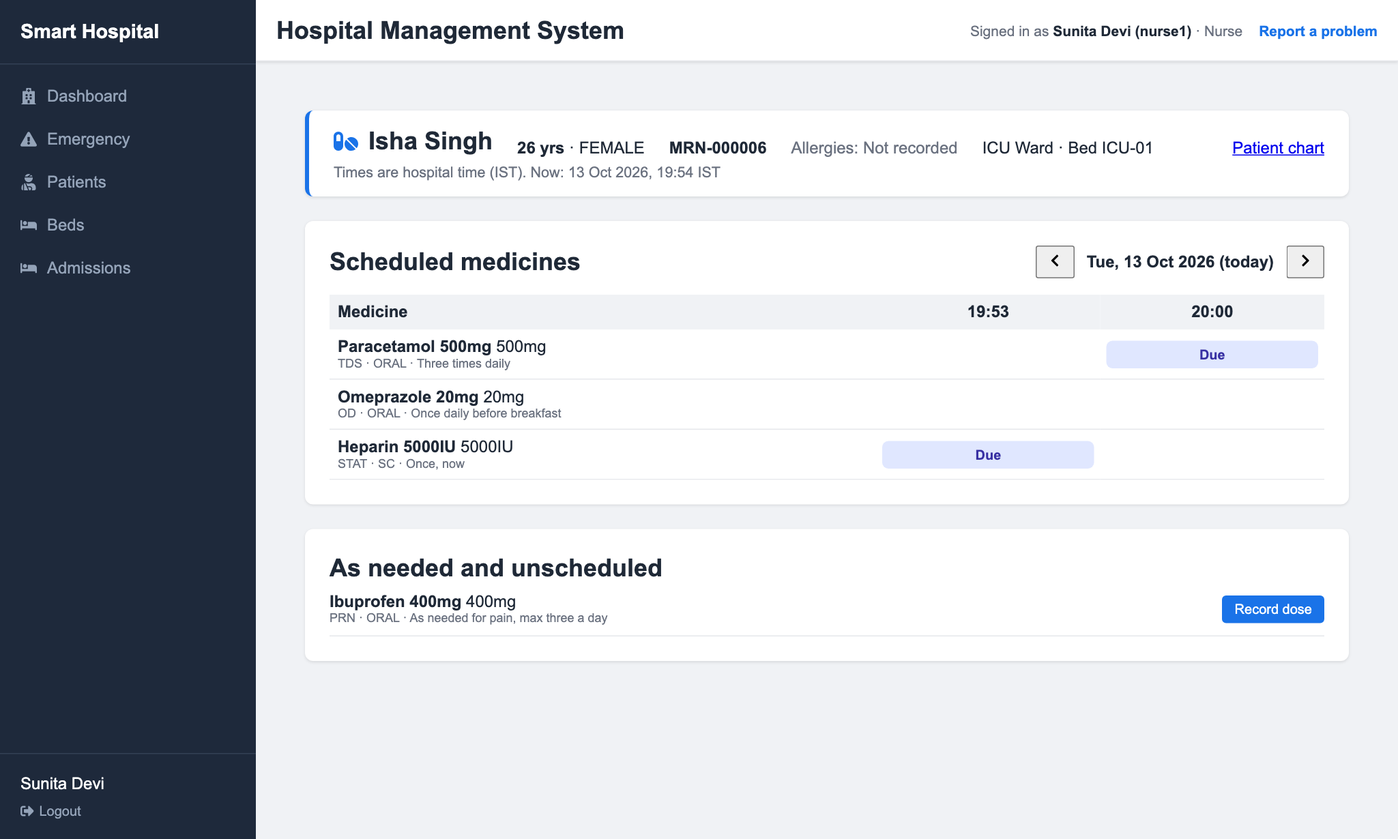
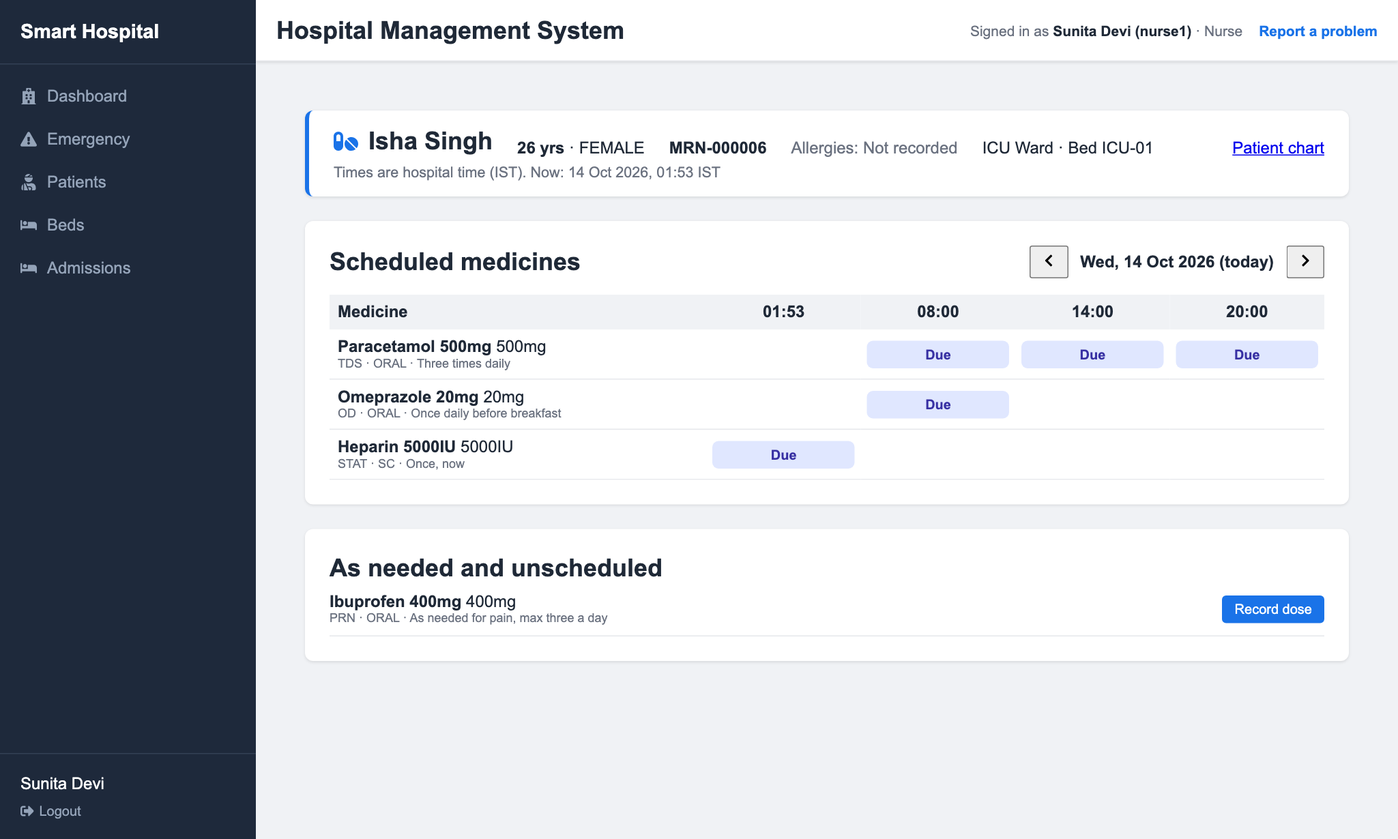
docs(report): regenerate the DBMS report for the current code
Every generated input was rebuilt from the current migrations (000-025) and code by the
new gen/build-all.js: gen/build-schema.js builds a fresh hospital_report_test and writes
data/schema.json and hospital_db_full.sql (both were previously produced by hand), then
the query, demonstration, test-case and screenshot runs on a fresh hospital_db_test, the
ER diagrams and tables, and the PDF (38 pages; main.pdf stays untracked).

Changes that follow the code:
- Query 5 and the dispensing lock-order listing use today's date in India, not CURDATE();
  ages are computed with that date as a parameter; v_current_stock (migration 024)
- nurse_ward_assignments.ended_at and chk_nwa_ended_at: 342 columns, 31 CHECKs, rule 19,
  the ER attribute (Module 6), and the assign/end/cancel rows in Section 9.6; the only
  application DELETE is cancelling an assignment that has not started
- Section 9.4 describes UTC connections and India-time "today"
- Chapter 10: 303 server tests in 46 files, the 00:30/06:00 IST checks, the browser suite
  in three time zones, and the patient journey as run locally
- the doctor's chart screenshot now opens a patient in Dr. Smith's care (it showed
  "Access denied" when the newest patient was not his); screenshots use India time

Changed region(s): [[0.4998, 0.3398, 0.9058, 0.5561], [0.7496, 0.3089, 0.7809, 0.3398], [0.4685, 0.1854, 0.4998, 0.2163]]

diff --git a/docs/report/gen/build-schema.js b/docs/report/gen/build-schema.js
@@ -1,0 +1,90 @@
+// Builds a fresh database from database/seed.sql and every migration (hospital_report_test; any
+// other database is never touched), then writes from it:
+//   data/schema.json       the structure the generators read (tables, columns, keys, CHECKs, triggers,
+//                          views, routines and their CREATE statements)
+//   hospital_db_full.sql   the complete MySQL script (Appendix A): schema, views, triggers, procedures, data
+// Usage (from docs/report): node gen/build-schema.js
+const path = require('path');
+const fs = require('fs');
+const { execFileSync } = require('child_process');
+const SERVER = path.join(__dirname, '../../../server');
+const mysql = require(SERVER + '/node_modules/mysql2/promise');
+require(SERVER + '/node_modules/dotenv').config({ path: SERVER + '/.env' });
+const { buildFromSeed } = require(SERVER + '/scripts/lib/build-db');
+const { adminCredentials } = require(SERVER + '/scripts/lib/admin-credentials');
+const { listMigrations } = require(SERVER + '/scripts/lib/sql');
+
+const DB = 'hospital_report_test';
+const R = path.join(__dirname, '..');
+
+async function schema(c) {
+  const q = async (sql) => (await c.query(sql, [DB]))[0];
+  const [base] = await c.query("SELECT TABLE_NAME n FROM information_schema.TABLES WHERE TABLE_SCHEMA = ? AND TABLE_TYPE = 'BASE TABLE' ORDER BY n", [DB]);
+  for (const { n } of base) await c.query(`ANALYZE TABLE \`${n}\``); // exact row counts in TABLE_ROWS
+  const d = {};
+  d.tables = await q(`SELECT TABLE_NAME name, TABLE_TYPE type, ENGINE engine, TABLE_ROWS approx_rows, TABLE_COMMENT comment
+    FROM information_schema.TABLES WHERE TABLE_SCHEMA = ? ORDER BY name`);
+  d.columns = await q(`SELECT TABLE_NAME t, COLUMN_NAME name, ORDINAL_POSITION pos, COLUMN_TYPE type, IS_NULLABLE nullable,
+      COLUMN_DEFAULT dflt, COLUMN_KEY k, EXTRA extra, COLUMN_COMMENT comment, GENERATION_EXPRESSION gen
+    FROM information_schema.COLUMNS WHERE TABLE_SCHEMA = ? ORDER BY t, pos`);
+  d.indexes = await q(`SELECT TABLE_NAME t, INDEX_NAME name, NON_UNIQUE non_unique, GROUP_CONCAT(COLUMN_NAME ORDER BY SEQ_IN_INDEX) cols
+    FROM information_schema.STATISTICS WHERE TABLE_SCHEMA = ? GROUP BY t, name, non_unique ORDER BY t, name`);
+  d.fks = await q(`SELECT k.TABLE_NAME t, k.CONSTRAINT_NAME name, GROUP_CONCAT(k.COLUMN_NAME ORDER BY k.ORDINAL_POSITION) cols,
+      k.REFERENCED_TABLE_NAME rt, GROUP_CONCAT(k.REFERENCED_COLUMN_NAME ORDER BY k.ORDINAL_POSITION) rcols, r.DELETE_RULE on_delete, r.UPDATE_RULE on_update
+    FROM information_schema.KEY_COLUMN_USAGE k JOIN information_schema.REFERENTIAL_CONSTRAINTS r
+      ON r.CONSTRAINT_SCHEMA = k.TABLE_SCHEMA AND r.CONSTRAINT_NAME = k.CONSTRAINT_NAME AND r.TABLE_NAME = k.TABLE_NAME
+    WHERE k.TABLE_SCHEMA = ? GROUP BY t, name, rt, on_delete, on_update ORDER BY t, name`);
+  d.checks = await q(`SELECT tc.TABLE_NAME t, cc.CONSTRAINT_NAME name, cc.CHECK_CLAUSE clause FROM information_schema.CHECK_CONSTRAINTS cc
+    JOIN information_schema.TABLE_CONSTRAINTS tc ON tc.CONSTRAINT_SCHEMA = cc.CONSTRAINT_SCHEMA AND tc.CONSTRAINT_NAME = cc.CONSTRAINT_NAME
+    WHERE cc.CONSTRAINT_SCHEMA = ? ORDER BY t, name`);
+  d.uniques = await q(`SELECT TABLE_NAME t, CONSTRAINT_NAME name FROM information_schema.TABLE_CONSTRAINTS
+    WHERE CONSTRAINT_SCHEMA = ? AND CONSTRAINT_TYPE = 'UNIQUE' ORDER BY t, name`);
+  d.triggers = await q(`SELECT TRIGGER_NAME name, EVENT_MANIPULATION event, EVENT_OBJECT_TABLE t, ACTION_TIMING timing, ACTION_STATEMENT body
+    FROM information_schema.TRIGGERS WHERE TRIGGER_SCHEMA = ? ORDER BY name`);
+  d.views = await q('SELECT TABLE_NAME name, VIEW_DEFINITION def FROM information_schema.VIEWS WHERE TABLE_SCHEMA = ? ORDER BY name');
+  d.views.forEach(v => { v.def = v.def.replaceAll(`\`${DB}\`.`, ''); }); // no database name in the definitions
+  d.routines = await q(`SELECT ROUTINE_NAME name, ROUTINE_TYPE type, ROUTINE_DEFINITION def, DTD_IDENTIFIER returns, SQL_DATA_ACCESS access
+    FROM information_schema.ROUTINES WHERE ROUTINE_SCHEMA = ? ORDER BY name`);
+  d.routines.forEach(r => { r.returns = r.returns || ''; });
+  d.params = await q(`SELECT SPECIFIC_NAME r, ORDINAL_POSITION pos, PARAMETER_MODE mode, PARAMETER_NAME name, DTD_IDENTIFIER type
+    FROM information_schema.PARAMETERS WHERE SPECIFIC_SCHEMA = ? AND ORDINAL_POSITION > 0 ORDER BY r, pos`);
+  d.events = await q('SELECT EVENT_NAME name FROM information_schema.EVENTS WHERE EVENT_SCHEMA = ? ORDER BY name');
+  d.create = {};
+  for (const { n } of base) d.create[n] = (await c.query(`SHOW CREATE TABLE \`${n}\``))[0][0]['Create Table'].replace(/ AUTO_INCREMENT=\d+/, '');
+  d.procCreate = {};
+  for (const r of d.routines) d.procCreate[r.name] = (await c.query(`SHOW CREATE ${r.type} \`${r.name}\``))[0][0][`Create ${r.type === 'PROCEDURE' ? 'Procedure' : 'Function'}`];
+  for (const t of d.tables) t.approx_rows = t.approx_rows === null ? null : Number(t.approx_rows);
+  return d;
+}
+
+function fullScript(lastMigration) {
+  const env = { ...process.env, MYSQL_PWD: adminCredentials().password };
+  const dump = execFileSync('mysqldump', ['-h', process.env.DB_HOST || '127.0.0.1', '-P', String(process.env.DB_PORT || 3306), '-u', adminCredentials().user,
+    '--routines', '--triggers', '--single-transaction', '--skip-dump-date', '--no-tablespaces', '--set-gtid-purged=OFF', DB], { env, maxBuffer: 64 << 20 }).toString();
+  const body = dump
+    .replace(/ DEFINER=`[^`]+`@`[^`]+`/g, '').replaceAll('/*!50017*/', '/*!50017 */') // load as whoever runs the script
+    .replace(/^-- Host: .*$/m, '-- Host: (local)')
+    .replaceAll(`\`${DB}\``, '`hospital_db`').replaceAll(DB, 'hospital_db');
+  return `-- Smart Hospital Management System: complete MySQL script (schema, constraints, views, triggers,
+-- procedures and sample data). Exported from a database built from database/seed.sql and migrations
+-- 000-${lastMigration}, the same schema as hospital_db. All people and records in it are made up; every demo
+-- account password is the documented demo password.
+-- Load with:  mysql -u root -p < hospital_db_full.sql
+
+CREATE DATABASE IF NOT EXISTS hospital_db CHARACTER SET utf8mb4 COLLATE utf8mb4_0900_ai_ci;
+USE hospital_db;
+
+${body}`;
+}
+
+(async () => {
+  await buildFromSeed(DB, { log: () => {} });
+  const c = await mysql.createConnection({ host: process.env.DB_HOST, port: process.env.DB_PORT || 3306, ...adminCredentials(), database: DB });
+  try {
+    const [[db]] = await c.query('SELECT DATABASE() d'); if (db.d !== DB) throw new Error('not the report database');
+    fs.writeFileSync(path.join(R, 'data/schema.json'), JSON.stringify(await schema(c), null, 1));
+  } finally { await c.end(); }
+  const last = listMigrations().at(-1).slice(0, 3);
+  fs.writeFileSync(path.join(R, 'hospital_db_full.sql'), fullScript(last));
+  console.log(`schema.json and hospital_db_full.sql from ${DB} (migrations 000-${last})`);
+})().catch(e => { console.error(e); process.exit(1); });

diff --git a/docs/report/gen/screenshots.js b/docs/report/gen/screenshots.js
@@ -8,7 +8,11 @@ const APP = 'http://localhost:5174';
 (async () => {
   const c = await mysql.createConnection({ host: process.env.DB_HOST, port: process.env.DB_PORT, user: process.env.DB_ADMIN_USER, password: process.env.DB_ADMIN_PASSWORD, database: 'hospital_db_test' });
   const [[db]] = await c.query('SELECT DATABASE() d'); if (db.d !== 'hospital_db_test') throw new Error('not the test db');
-  const [[journey]] = await c.query('SELECT patient_id FROM patients ORDER BY patient_id DESC LIMIT 1');
+  // Dr. Smith's patient with the most visits, notes and orders (in his care, so the chart opens).
+  const [[journey]] = await c.query(`SELECT r.patient_id FROM (
+      SELECT patient_id FROM encounters WHERE doctor_id = d.doctor_id UNION ALL SELECT patient_id FROM consultations WHERE doctor_id = d.doctor_id
+      UNION ALL SELECT patient_id FROM lab_orders WHERE doctor_id = d.doctor_id UNION ALL SELECT patient_id FROM prescriptions WHERE doctor_id = d.doctor_id
+    ) r GROUP BY r.patient_id ORDER BY COUNT(*) DESC, r.patient_id LIMIT 1`.replaceAll('d.doctor_id', "(SELECT d.doctor_id FROM doctors d JOIN users u ON u.user_id = d.user_id WHERE u.username = 'dr.smith')"));
   const [[mar]] = await c.query("SELECT patient_id FROM prescriptions WHERE notes = 'Demo MAR seed (migration 008)'");
   await c.end();
   const shots = [
@@ -30,6 +34,7 @@ const APP = 'http://localhost:5174';
   for (const [user, path, name] of shots) {
     const ctx = await browser.createBrowserContext();
     const page = await ctx.newPage();
+    await page.emulateTimezone('Asia/Kolkata'); // as the hospital's browsers
     await page.setViewport({ width: 1366, height: 820, deviceScaleFactor: 1.5 });
     if (user) {
       await page.goto(`${APP}/login`);

diff --git a/docs/report/gen/build-all.js b/docs/report/gen/build-all.js
@@ -1,0 +1,23 @@
+// Regenerates everything the report reads, then the PDF. From docs/report:  node gen/build-all.js
+//  1. build-schema.js: a fresh hospital_report_test -> data/schema.json and hospital_db_full.sql
+//  2. a fresh hospital_db_test with the API (port 5100) and client (5174) running on it, exactly as the
+//     browser tests start them (tests/ui/global-setup.js; refuses if either port is in use), then the
+//     runs on it: run-queries (ch. 8.6), run-demos (8.3-8.5), run-tests (ch. 10), screenshots (ch. 9)
+//  3. gen-er.js and gen-tables.js -> figures/er and generated/;  4. tectonic -> main.pdf
+// hospital_db is never touched.
+const path = require('path');
+const { execFileSync } = require('child_process');
+const R = path.join(__dirname, '..');
+const { globalSetup, globalTeardown } = require(path.join(R, '../../tests/ui/global-setup'));
+const run = (cmd, args) => { console.log(`[report] ${cmd} ${args.join(' ')}`); execFileSync(cmd, args, { cwd: R, stdio: 'inherit' }); };
+
+(async () => {
+  run(process.execPath, ['gen/build-schema.js']);
+  await globalSetup();
+  try {
+    for (const g of ['run-queries', 'run-demos', 'run-tests', 'screenshots']) run(process.execPath, [`gen/${g}.js`]);
+  } finally { await globalTeardown(); }
+  run(process.execPath, ['gen/gen-er.js']);
+  run(process.execPath, ['gen/gen-tables.js']);
+  run('tectonic', ['-X', 'compile', 'main.tex']);
+})().catch(e => { console.error(e); process.exit(1); });

diff --git a/docs/report/gen/run-queries.js b/docs/report/gen/run-queries.js
@@ -24,14 +24,14 @@ FROM doctors doc JOIN departments dep ON dep.department_id = doc.department_id
 GROUP BY dep.department_id, dep.name
 HAVING COUNT(*) > 1
 ORDER BY doctors DESC, department;` },
- { id: 'q5', cat: 'INNER JOIN', purpose: "Today's appointments with patient and doctor names; the department comes from the doctor through the view v_appointments.",
+ { id: 'q5', cat: 'INNER JOIN', purpose: "Today's appointments with patient and doctor names; the department comes from the doctor through the view v_appointments. Today is the date in India: UTC plus 5 h 30 min, whatever the server's time zone (the application passes the same date as a parameter).",
    sql: `SELECT a.appointment_time, p.name AS patient, d.name AS doctor,
        dep.name AS department, a.status
 FROM v_appointments a
 INNER JOIN patients p     ON p.patient_id = a.patient_id
 INNER JOIN doctors d      ON d.doctor_id = a.doctor_id
 INNER JOIN departments dep ON dep.department_id = a.department_id
-WHERE a.appointment_date = CURDATE()
+WHERE a.appointment_date = DATE(UTC_TIMESTAMP() + INTERVAL 330 MINUTE)
 ORDER BY a.appointment_time;` },
  { id: 'q6', cat: 'LEFT JOIN', purpose: 'Every doctor with the number of ACTIVE admissions they hold, including doctors with none (LEFT JOIN keeps them, COUNT gives 0).',
    sql: `SELECT d.name, d.current_workload, d.max_workload,

diff --git a/docs/report/gen/er-layout.js b/docs/report/gen/er-layout.js
@@ -234,7 +234,7 @@ diagrams['6a'] = {
   module: 6,
   entities: {
     USER: { at: [5.0, -3.4], attrs: { user_id: [2.4, -1.4], username: [4.2, -0.8], role: [6.0, -0.8], full_name: [7.6, -1.4], email: [2.2, -4.6] } },
-    WARD_ASSIGNMENT: { at: [13.2, -3.4], attrs: { assignment_id: [15.4, -1.4], start_date: [12.4, -1.0], end_date: [15.6, -4.6] } },
+    WARD_ASSIGNMENT: { at: [13.2, -3.4], attrs: { assignment_id: [15.4, -1.4], start_date: [12.4, -1.0], end_date: [15.6, -4.6], ended_at: [16.4, -3.0] } },
     AUDIT_LOG: { at: [2.4, -10.6], attrs: { audit_id: [0.9, -12.4], action: [2.4, -13.0], outcome: [4.0, -12.6], created_at: [0.9, -8.8], details: [4.4, -9.2 + 0.2] } },
     DOCTOR: { at: [7.8, -10.6], attrs: { doctor_id: [6.0, -8.6], specialization: [9.6, -8.6], shift: [5.2, -11.9], max_workload: [6.4, -12.9], current_workload: [11.2, -10.6] } },
     DEPARTMENT: { at: [13.2, -14.6], attrs: { department_id: [15.6, -13.2], name: [15.8, -14.4], floor: [15.6, -15.6], phone: [13.6, -16.6] } },

diff --git a/docs/report/gen/er-model.js b/docs/report/gen/er-model.js
@@ -40,7 +40,7 @@ const ENTITIES = {
   DEPARTMENT: { module: 6, table: 'departments', attrs: [['department_id', 'key'], ['name'], ['floor'], ['phone']] },
   DOCTOR_SCHEDULE: { module: 6, table: 'doctor_schedules', weak: true, attrs: [['day_of_week', 'partial'], ['start_time', 'partial'], ['end_time'], ['is_available']] },
   DAILY_ANALYTICS: { module: 6, table: 'doctor_daily_analytics', weak: true, attrs: [['analytics_date', 'partial'], ['patients_seen'], ['cases_pending']] },
-  WARD_ASSIGNMENT: { module: 6, table: 'nurse_ward_assignments', attrs: [['assignment_id', 'key'], ['start_date'], ['end_date']] },
+  WARD_ASSIGNMENT: { module: 6, table: 'nurse_ward_assignments', attrs: [['assignment_id', 'key'], ['start_date'], ['end_date'], ['ended_at']] },
   AUDIT_LOG: { module: 6, table: 'audit_logs', attrs: [['audit_id', 'key'], ['action'], ['outcome'], ['created_at'], ['details']] },
 };
 

diff --git a/docs/report/chapters/ch8-mysql.tex b/docs/report/chapters/ch8-mysql.tex
@@ -4,7 +4,7 @@ data and every migration (same schema as \tbl{hospital\_db}, checked by a schema
 data were run inside a transaction that was then rolled back.
 
 \section{Database Creation}
-The schema is built by numbered migration files (\path{database/migrations/000} to \path{023}), applied in order by
+The schema is built by numbered migration files (\path{database/migrations/000} to \path{025}), applied in order by
 \path{server/scripts/migrate.js}, which backs up the database first and records each file in
 \tbl{schema\_migrations}. The database and the restricted account the application runs as:
 \begin{lstlisting}[caption={Creating the database and the application's restricted account}]
@@ -32,7 +32,7 @@ VALUES ('Meera Iyer', '1992-07-14', 'FEMALE', 'B+', '9810012345', '1234567890123
 INSERT INTO bill_items (bill_id, description, category, quantity, unit_price)
 VALUES (1, 'Dressing change', 'PROCEDURE', 3, 150.00);
 \end{lstlisting}
-\textbf{Result:} 1 row each. The patient got \tbl{patient\_id = 37}. The bill line got \tbl{total\_price = 450.00}
+\textbf{Result:} 1 row each. The patient got \tbl{patient\_id = 33}. The bill line got \tbl{total\_price = 450.00}
 without the statement supplying it (generated column). The seed data (\tbl{database/seed.sql}) inserts 17 staff
 accounts, 12 doctors, 9 departments, 6 wards, 35 beds, 32 patients, 22 medicines, 15 lab tests and their activity.
 
@@ -61,7 +61,7 @@ reports on. Each gives its SQL, purpose and real output.
 \section{Advanced DBMS Features}
 \textbf{Views (10).} \tbl{v\_appointments} returns appointments with the department taken from the doctor
 (Section~6.3), so reads keep their columns after the decomposition; \tbl{v\_current\_stock} shows each medicine's
-total, usable and expired quantities and next expiry from its batches (Query~14); \tbl{current\_admissions\_view}
+total, usable and expired quantities and next expiry from its batches (Query~14), with ``today'' taken as the date in India (migration 024); \tbl{current\_admissions\_view}
 (Query~15), \tbl{available\_beds\_view}, \tbl{bed\_status\_summary\_view}, \tbl{hospital\_occupancy\_view},
 \tbl{available\_doctors\_view}, \tbl{doctor\_workload\_view}, \tbl{emergency\_queue\_view} and
 \tbl{pending\_bills\_view} give reporting summaries.
@@ -87,7 +87,7 @@ START TRANSACTION;
 SELECT status, patient_id FROM prescriptions WHERE prescription_id = ? FOR UPDATE;
 SELECT medicine_id, stock_quantity FROM medicines WHERE medicine_id = ? FOR UPDATE;  -- each, ascending id
 SELECT batch_id, quantity, expiry_date FROM medicine_batches
-WHERE medicine_id = ? AND quantity > 0 AND expiry_date >= CURDATE()
+WHERE medicine_id = ? AND quantity > 0 AND expiry_date >= ?    -- today's date in India
 ORDER BY expiry_date, batch_id FOR UPDATE;                                          -- first expiry first out
 UPDATE prescription_items SET dispensed = TRUE, dispensed_at = NOW()
 WHERE item_id IN (?) AND dispensed = FALSE;              -- trigger after_prescription_dispense lowers the total

diff --git a/docs/report/chapters/ch2-requirements.tex b/docs/report/chapters/ch2-requirements.tex
@@ -22,7 +22,7 @@ Every rule below is enforced by the schema or by the application code, as stated
 \toprule
 & \textbf{Rule} & \textbf{Enforced by} \\\midrule\endhead
 1 & Every patient has a unique MRN (the patient id); an ABHA number, when given, is 14 digits and unique. & PK \tbl{patients.patient\_id}; UNIQUE \tbl{uq\_patients\_abha}; CHECK \tbl{chk\_patients\_abha\_format} \\
-2 & A date of birth cannot be in the future. & API validation (\tbl{POST/PUT /api/patients}, 400) \\
+2 & A date of birth cannot be in the future (after today's date in India). & API validation (\tbl{POST/PUT /api/patients}, 400) \\
 3 & A doctor cannot be booked twice for the same date and time. & UNIQUE (\tbl{doctor\_id, appointment\_date, appointment\_time}) \\
 4 & A visit moves only ARRIVED $\to$ (TRIAGED) $\to$ IN\_PROGRESS $\to$ FINISHED; it can be CANCELLED before it starts or marked ENTERED\_IN\_ERROR before it finishes; its appointment's status follows it. & State machine in \tbl{utils/encounters.js}, in one transaction with the appointment row locked \\
 5 & A patient has at most one ACTIVE admission, and a bed holds at most one. & Locking reads (\tbl{SELECT \dots{} FOR UPDATE}) in the admission and emergency services; triggers mark the bed OCCUPIED / AVAILABLE \\
@@ -37,7 +37,8 @@ Every rule below is enforced by the schema or by the application code, as stated
 14 & Vital signs are within physiological ranges and belong to a visit or an admission. & Eleven CHECKs \tbl{chk\_vitals\_*} \\
 15 & Discharge is not before admission; a visit does not end before it starts. & CHECK \tbl{admissions\_chk\_1}, \tbl{chk\_encounters\_times} \\
 16 & A user account has at most one doctor profile. & UNIQUE \tbl{uq\_doctors\_user\_id} \\
-17 & Each action is limited to the roles that may perform it; a doctor sees only patients in their care. & \tbl{authorize(...)} middleware on every route; care-set check in \tbl{utils/patientAccess.js} \\
+17 & Each action is limited to the roles that may perform it; a doctor sees only patients in their care, a nurse only those on the wards assigned to them at that moment. & \tbl{authorize(...)} middleware on every route; care-set check in \tbl{utils/patientAccess.js} \\
 18 & The audit log can only grow. & Triggers \tbl{audit\_logs\_no\_update} and \tbl{audit\_logs\_no\_delete} \\
+19 & A nurse's assignments to one ward never share a day; an assignment ends no earlier than it starts and, once an administrator ends it, gives no access from that moment; one that has not started can be cancelled. & CHECK \tbl{chk\_nwa\_dates}, \tbl{chk\_nwa\_ended\_at}; overlap check after locking the nurse's account row (409) \\
 \bottomrule
 \end{longtable}}

diff --git a/docs/report/chapters/ch9-application.tex b/docs/report/chapters/ch9-application.tex
@@ -36,6 +36,10 @@ The API has 24 routers under \texttt{/api}. They map to the ER modules:
 \begin{itemize}
 \item \textbf{Pool:} \texttt{server/config/db.js} creates a \texttt{mysql2} connection pool (20 connections) from
 \texttt{server/.env}. All SQL uses placeholders (\texttt{?}), so user input is never spliced into a statement.
+\item \textbf{Time:} every connection stores and reads date-times in UTC (\texttt{SET time\_zone = '+00:00'}),
+whatever the time zone of the MySQL server or the API process. ``Today'' (today's appointments, ages, expiry, who is
+on a ward) is the date in India, decided by the API (\texttt{server/utils/clock.js}) and passed to SQL as a
+parameter, never \texttt{CURDATE()}.
 \item \textbf{Restricted account:} the running API connects as \texttt{hospital\_app}, which can read and write rows
 and call procedures but cannot change the schema; migrations use a separate administrative account.
 \item \textbf{Transactions:} \texttt{withTransaction(req, fn)} takes a connection, begins a transaction, runs the
@@ -74,7 +78,11 @@ Dispense (pharmacy) & Listing in Section~8.7: locks, \tbl{UPDATE} items and batc
 Admit, discharge (doctor) & \tbl{INSERT INTO admissions} / \tbl{UPDATE admissions SET status = 'DISCHARGED'}; triggers update the bed, the workload and \tbl{bed\_assignment\_log} \\
 Edit a patient's details & \tbl{UPDATE patients}; the audit row names the changed fields, never their values \\
 Cancel a prescription & \tbl{UPDATE prescriptions SET status = 'CANCELLED'}; pending doses \tbl{UPDATE medication\_administrations SET status = 'CANCELLED'} \\
+Assign a nurse to a ward (admin) & \tbl{SELECT \dots{} FOR UPDATE} on the nurse's account, then on any assignment sharing a day (409 if one exists); \tbl{INSERT INTO nurse\_ward\_assignments} \\
+End an assignment & \tbl{UPDATE nurse\_ward\_assignments SET end\_date = ?, ended\_at = ?}: the nurse loses the ward at once \\
+Cancel an assignment not yet started & \tbl{DELETE FROM nurse\_ward\_assignments}, refused (409) once it has started \\
 \bottomrule
 \end{tabularx}}
-Rows are not deleted through the application: clinical records are kept, and corrections are recorded as new states
-(for example a visit marked ENTERED\_IN\_ERROR), which the audit log requires.
+Clinical records are not deleted through the application: they are kept, and corrections are recorded as new
+states (for example a visit marked ENTERED\_IN\_ERROR), which the audit log requires. The one delete is cancelling a
+nurse assignment before its first day, which never gave access to anything; the audit log keeps its dates.

diff --git a/docs/report/chapters/ch10-testing.tex b/docs/report/chapters/ch10-testing.tex
@@ -30,10 +30,11 @@ The server suite contains a test for every constraint added in this work, run on
 
 \section{Results and Discussion}
 \begin{itemize}
-\item \textbf{Server suite:} 282 tests in 42 files (\texttt{node:test}) against a server on \tbl{hospital\_db\_test}, which is rebuilt from the migrations for every run: all pass.
-\item \textbf{Browser suite:} 121 tests in 29 files (Puppeteer) driving every role's screens: all pass.
+\item \textbf{Server suite:} 303 tests in 46 files (\texttt{node:test}) against a server on \tbl{hospital\_db\_test}, which is rebuilt from the migrations for every run: all pass.
+\item \textbf{Time of day:} the same checks run against servers whose clocks read 00:30 IST (when the UTC date is still the day before) and 06:00 IST: nurse assignment status, a nurse's access, today's appointments and counts, ages and expiry agree at both times.
+\item \textbf{Browser suite:} 121 tests in 29 files (Puppeteer) driving every role's screens: all pass, with the test machine's time zone set to India, UTC and Los Angeles in turn.
 \item \textbf{Stress test:} 300 rounds of competing prescribing and dispensing, and 300 rounds of mixed writers: 0 deadlocks, stock consistent.
-\item \textbf{Patient journey:} 13 steps from registration to discharge across five roles (every role but laboratory): all pass, locally and against the deployed site.
+\item \textbf{Patient journey:} 13 steps from registration to discharge across five roles (every role but laboratory): all pass locally.
 \end{itemize}
 One defect was found while preparing this report: \tbl{POST /api/patients} answers HTTP 500 instead of saving
 when the request omits the optional fields (blood group, phone, address, emergency contact), because the missing

diff --git a/docs/report/chapters/ch3-er.tex b/docs/report/chapters/ch3-er.tex
@@ -4,7 +4,7 @@
 The model has 30 entity types in six modules. Each becomes one table (Chapter 4); the two M:N and
 ternary relationships with attributes become the other two tables, and \tbl{schema\_migrations} records applied
 schema versions and is not part of the domain. Table~\ref{tab:entities} lists every entity with its identifier;
-the diagrams show each entity's principal attributes, and Section~4.3 lists all 341 columns.
+the diagrams show each entity's principal attributes, and Section~4.3 lists all 342 columns.
 Four entities are \textbf{weak} (Section~3.4).
 
 {\scriptsize
@@ -159,7 +159,7 @@ six records an admission can cover (Modules 1, 2 and 4) and billing: a BILL is \
 \textbf{Module 6, Staff and audit} (Figures~\ref{fig:m6a}, \ref{fig:m6b}). A USER account \textsc{is\_doctor} for at
 most one DOCTOR (1:1; every doctor has an account). A doctor \textsc{works\_in} one DEPARTMENT and has
 DOCTOR\_SCHEDULE slots and DAILY\_ANALYTICS rows (both weak). A WARD\_ASSIGNMENT joins a nurse
-(\textsc{nurse\_of}, total) to a ward (\textsc{covers}, total) for a period, and records the administrator who
-\textsc{assigns} it. Every AUDIT\_LOG row \textsc{logs} the user who acted, when known (failed logins have none).
+(\textsc{nurse\_of}, total) to a ward (\textsc{covers}, total) for a period of days, ended early at the moment an
+administrator ends it (\emph{ended\_at}), and records the administrator who \textsc{assigns} it. Every AUDIT\_LOG row \textsc{logs} the user who acted, when known (failed logins have none).
 Figure~\ref{fig:m6b} gathers, for DOCTOR and USER, every relationship that enters them from Modules~1 to~5, so the
 two pages of Module~6 together show all 15 links of these two entities.

diff --git a/docs/report/chapters/ch4-mapping.tex b/docs/report/chapters/ch4-mapping.tex
@@ -25,7 +25,7 @@ M:N with attribute & \textsc{filled\_from} $\to$ \tbl{prescription\_item\_batche
 Ternary with attributes & \textsc{occupies} $\to$ \tbl{bed\_assignment\_log(\underline{log\_id}, bed\_id\textsuperscript{FK}, patient\_id\textsuperscript{FK}, admission\_id\textsuperscript{FK}, assigned\_at, released\_at, status)}. \\
 Composite & \emph{blood\_pressure} $\to$ \tbl{bp\_systolic, bp\_diastolic} (CHECK: both or neither, systolic > diastolic); \emph{slot} $\to$ \tbl{appointment\_date, appointment\_time}. \\
 Multivalued & \emph{allergies} is stored as one text column \tbl{patients.allergies}: the application only displays it on the chart and never queries one allergy, so a separate \tbl{patient\_allergies} table was not created (a limitation, Section~11.2). \\
-Derived & \emph{age}: not stored, computed as \tbl{TIMESTAMPDIFF(YEAR, date\_of\_birth, CURDATE())}; \emph{total\_price}: generated column \tbl{quantity * unit\_price}; \emph{stock\_quantity}, \emph{total\_amount}, \emph{current\_workload}: stored copies kept equal by transactions and triggers (Section~6.6). \\
+Derived & \emph{age}: not stored, computed as \tbl{TIMESTAMPDIFF(YEAR, date\_of\_birth, ?)} with today's date in India as the parameter; \emph{total\_price}: generated column \tbl{quantity * unit\_price}; \emph{stock\_quantity}, \emph{total\_amount}, \emph{current\_workload}: stored copies kept equal by transactions and triggers (Section~6.6). \\
 \bottomrule
 \end{tabularx}
 
